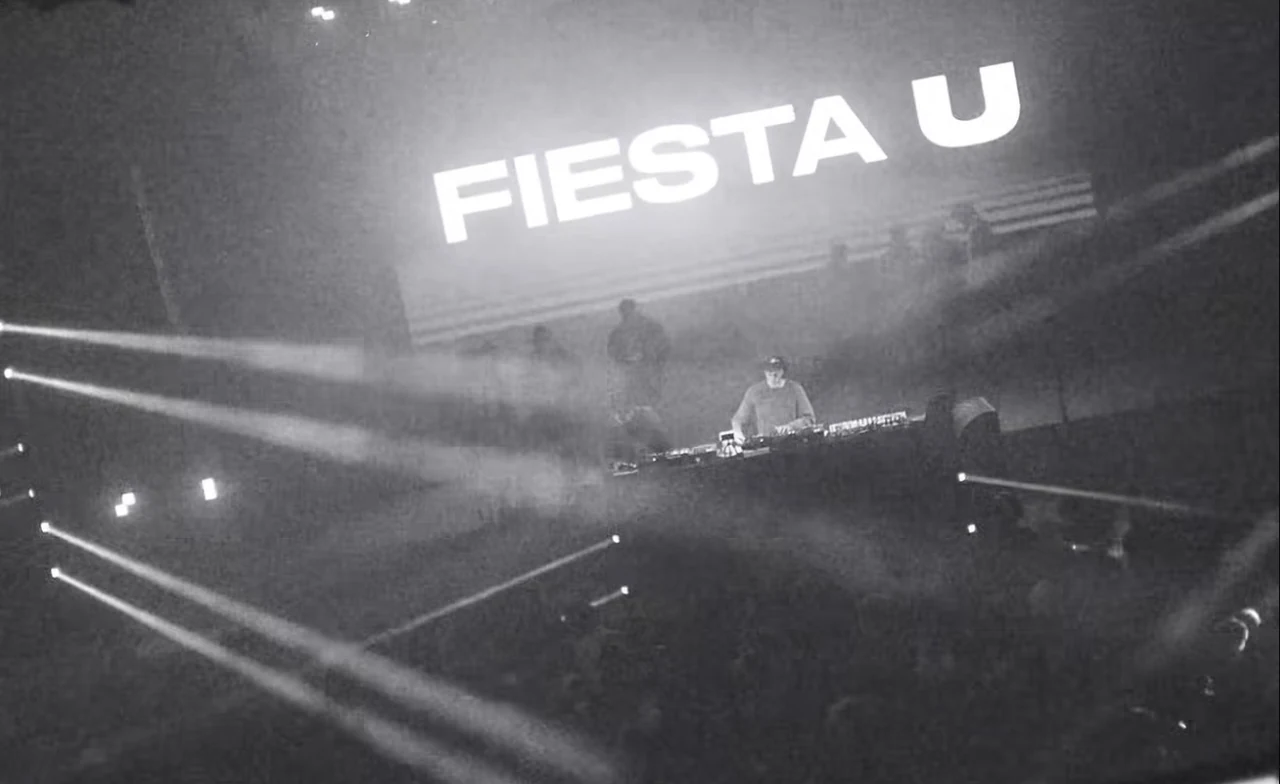
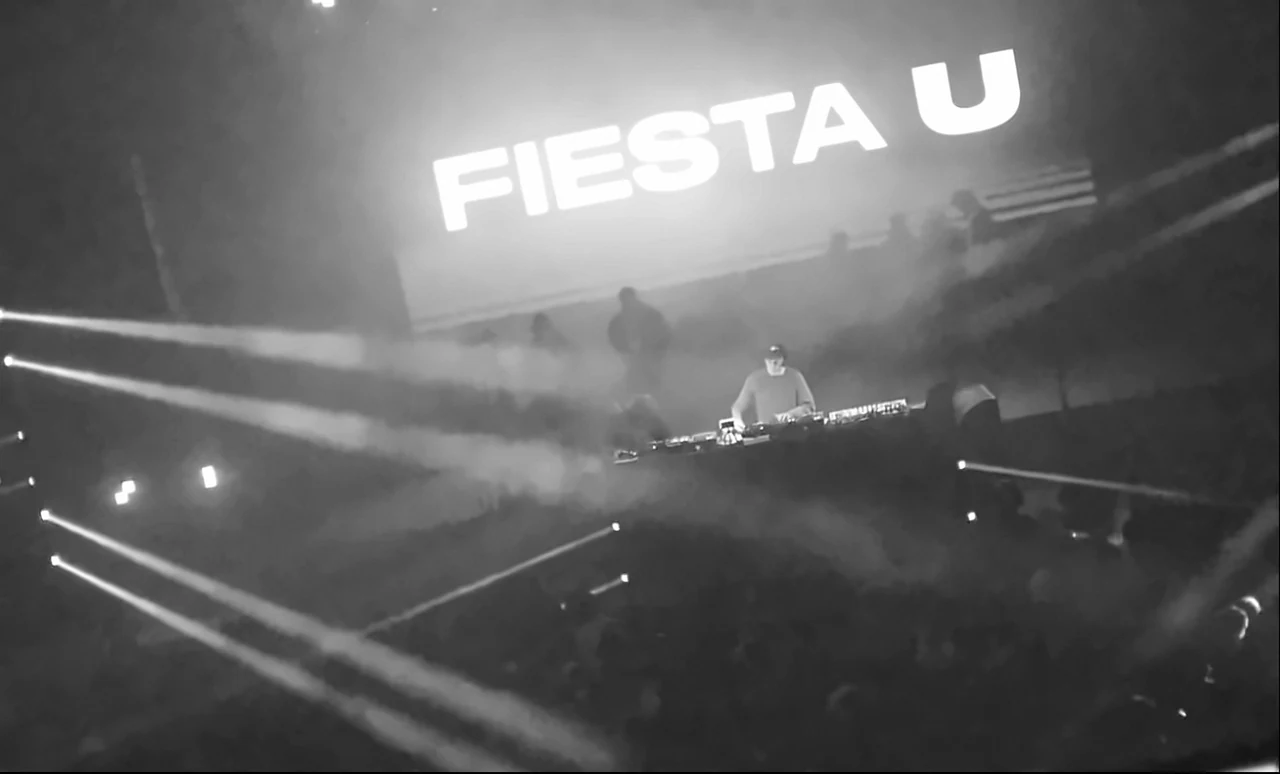
On stage: Fiesta U mejorada (sin ruido, x2 con EDSR, hasta 2880 px) sin cortar el cartel; botón de recursos al final, en Contacto
Claude-Session: https://claude.ai/code/session_01UQne8MemjnvNTpDb8x3PwW

diff --git a/src/styles/global.css b/src/styles/global.css
@@ -425,30 +425,6 @@ html.intro-active .hero__logo {
   align-items: flex-end;
   width: 100%;
 }
-.retrato__recursos {
-  position: relative;
-  z-index: 1;
-  margin-top: -24px;
-  display: inline-flex;
-  align-items: center;
-  gap: 10px;
-  padding: 16px 28px;
-  border-radius: 999px;
-  border: 1px solid rgba(255, 255, 255, 0.28);
-  background: rgba(5, 5, 5, 0.6);
-  color: var(--fg);
-  font-weight: 600;
-  font-size: 13px;
-  letter-spacing: 0.16em;
-  text-transform: uppercase;
-  text-decoration: none;
-  transition: background 0.3s, border-color 0.3s;
-}
-.retrato__recursos:hover,
-.retrato__recursos:focus-visible {
-  background: var(--accent);
-  border-color: var(--accent);
-}
 @media (min-width: 861px) {
   .retrato {
     padding: 40px 0 90px;
@@ -462,11 +438,7 @@ html.intro-active .hero__logo {
     mask-image: linear-gradient(to bottom, transparent 0%, #000 10%, #000 84%, transparent 100%),
       linear-gradient(to right, transparent 0%, #000 6%, #000 94%, transparent 100%);
   }
-  .retrato__recursos {
-    margin-top: -28px;
-    font-size: 14px;
   }
-}
 
 /* ---------- GALERÍA ---------- */
 
@@ -819,6 +791,10 @@ html.intro-active .hero__logo {
   /* En pantallas muy anchas la placa no pasa del alto de la ventana */
   .pk__media img {
     max-height: 100svh;
+  }
+  /* Que no se corte el cartel "FIESTA U" de arriba */
+  #en-cabina .pk__media img {
+    object-position: 50% 10%;
   }
   .pk--right .pk__text {
     right: 6%;
